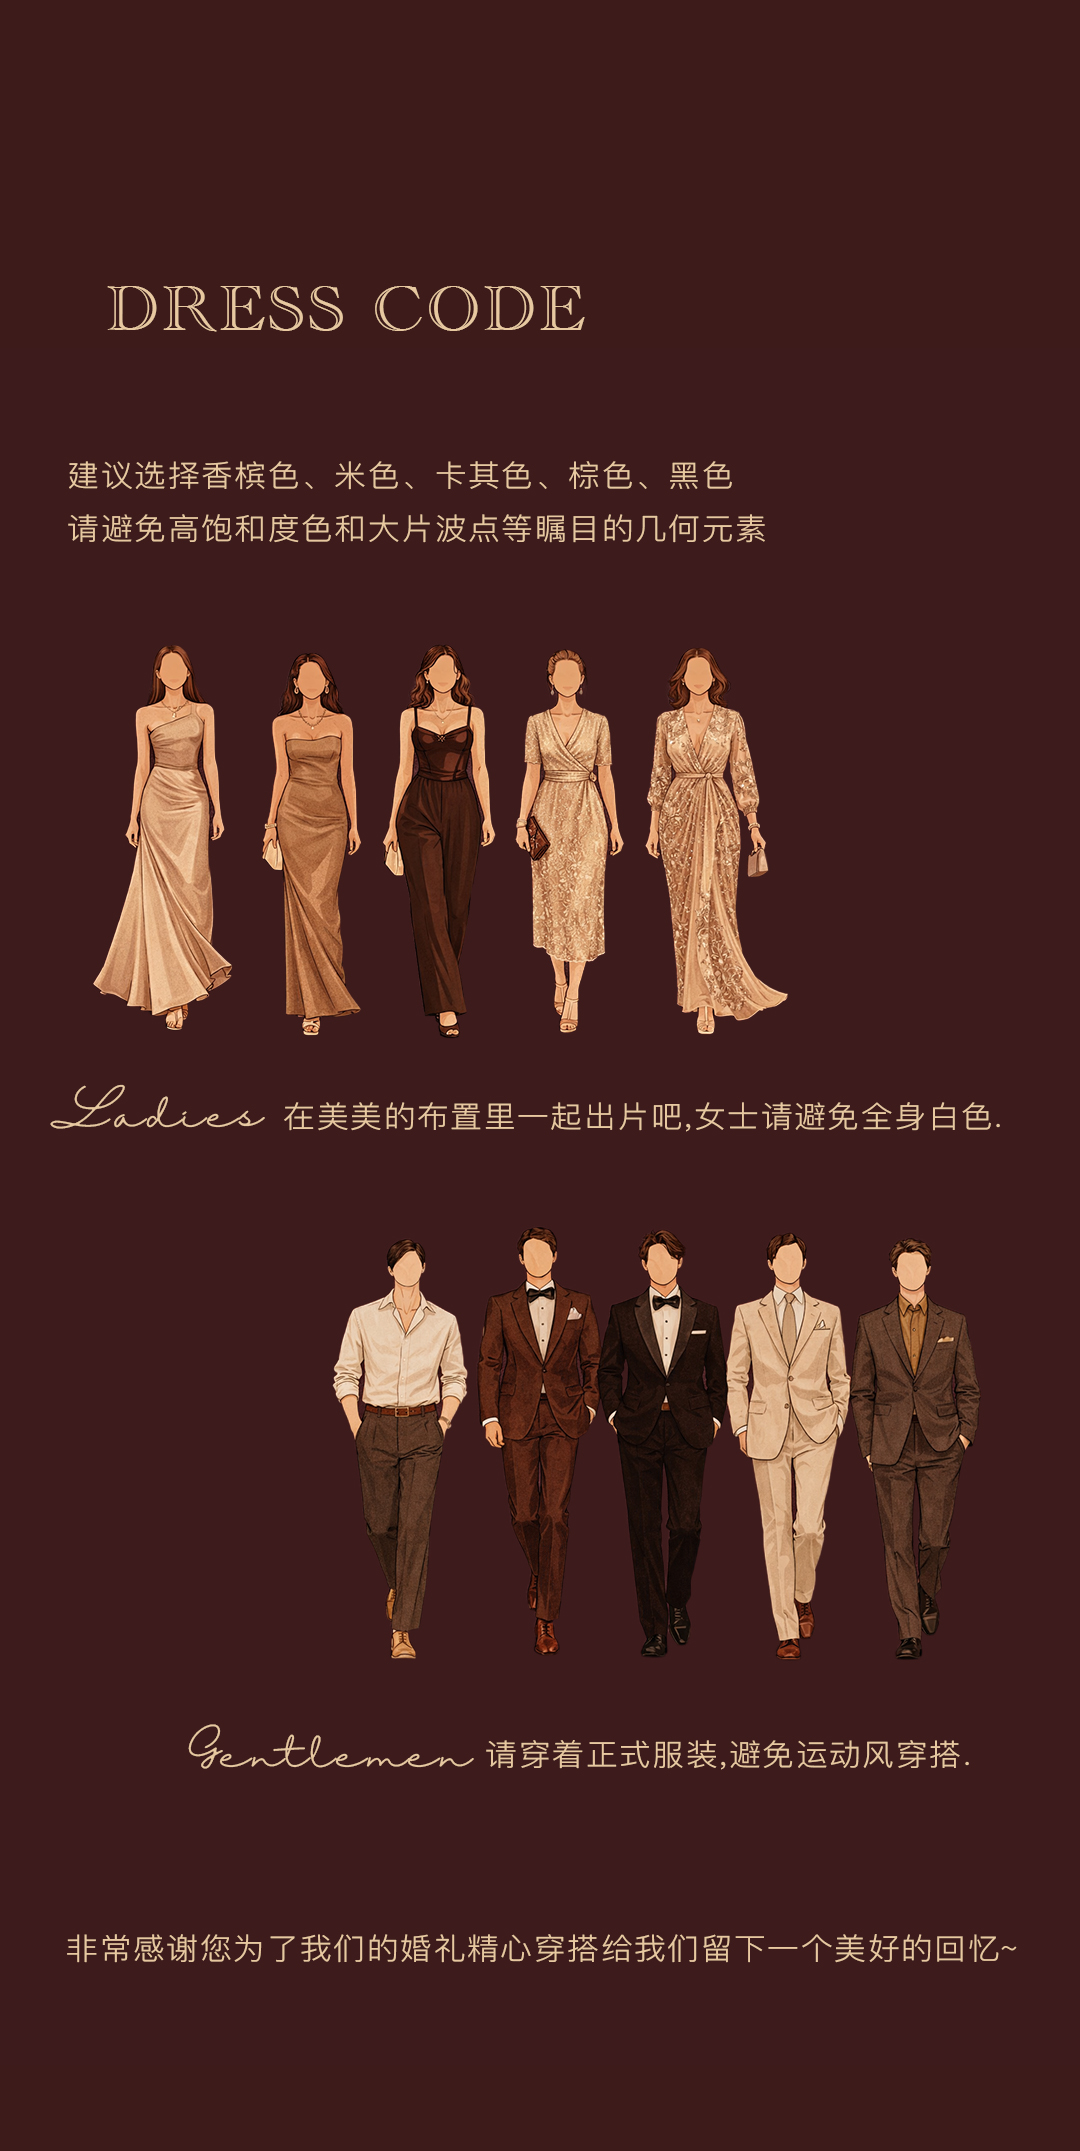
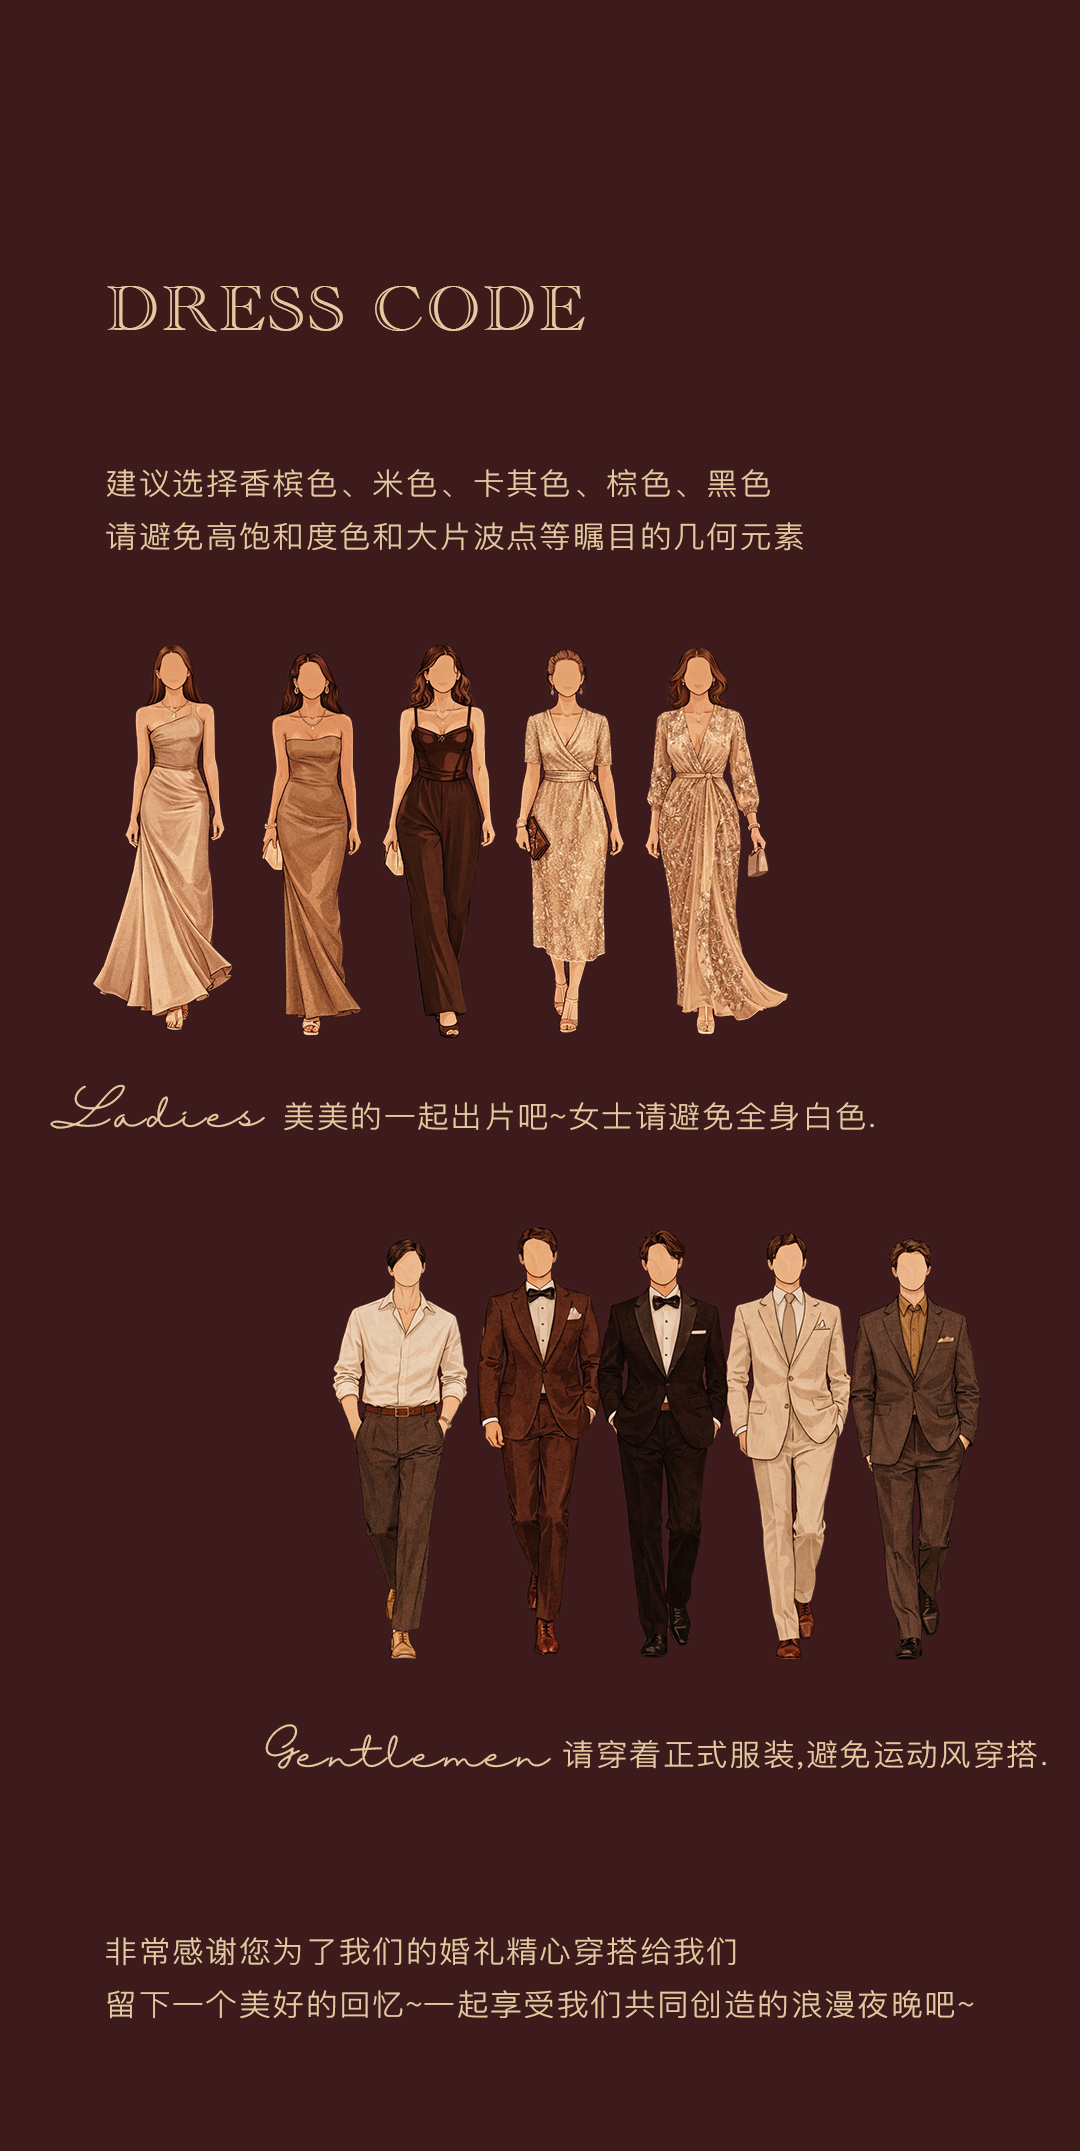
Update invitation page 4 artwork

diff --git a/src/app/page.tsx b/src/app/page.tsx
@@ -156,7 +156,7 @@ export default function Home() {
           src="/page-4.jpg"
           alt="婚礼邀请函第四页"
           width={1080}
-          height={2033}
+          height={2151}
           unoptimized
           sizes="100vw"
           className="block h-auto w-full"
